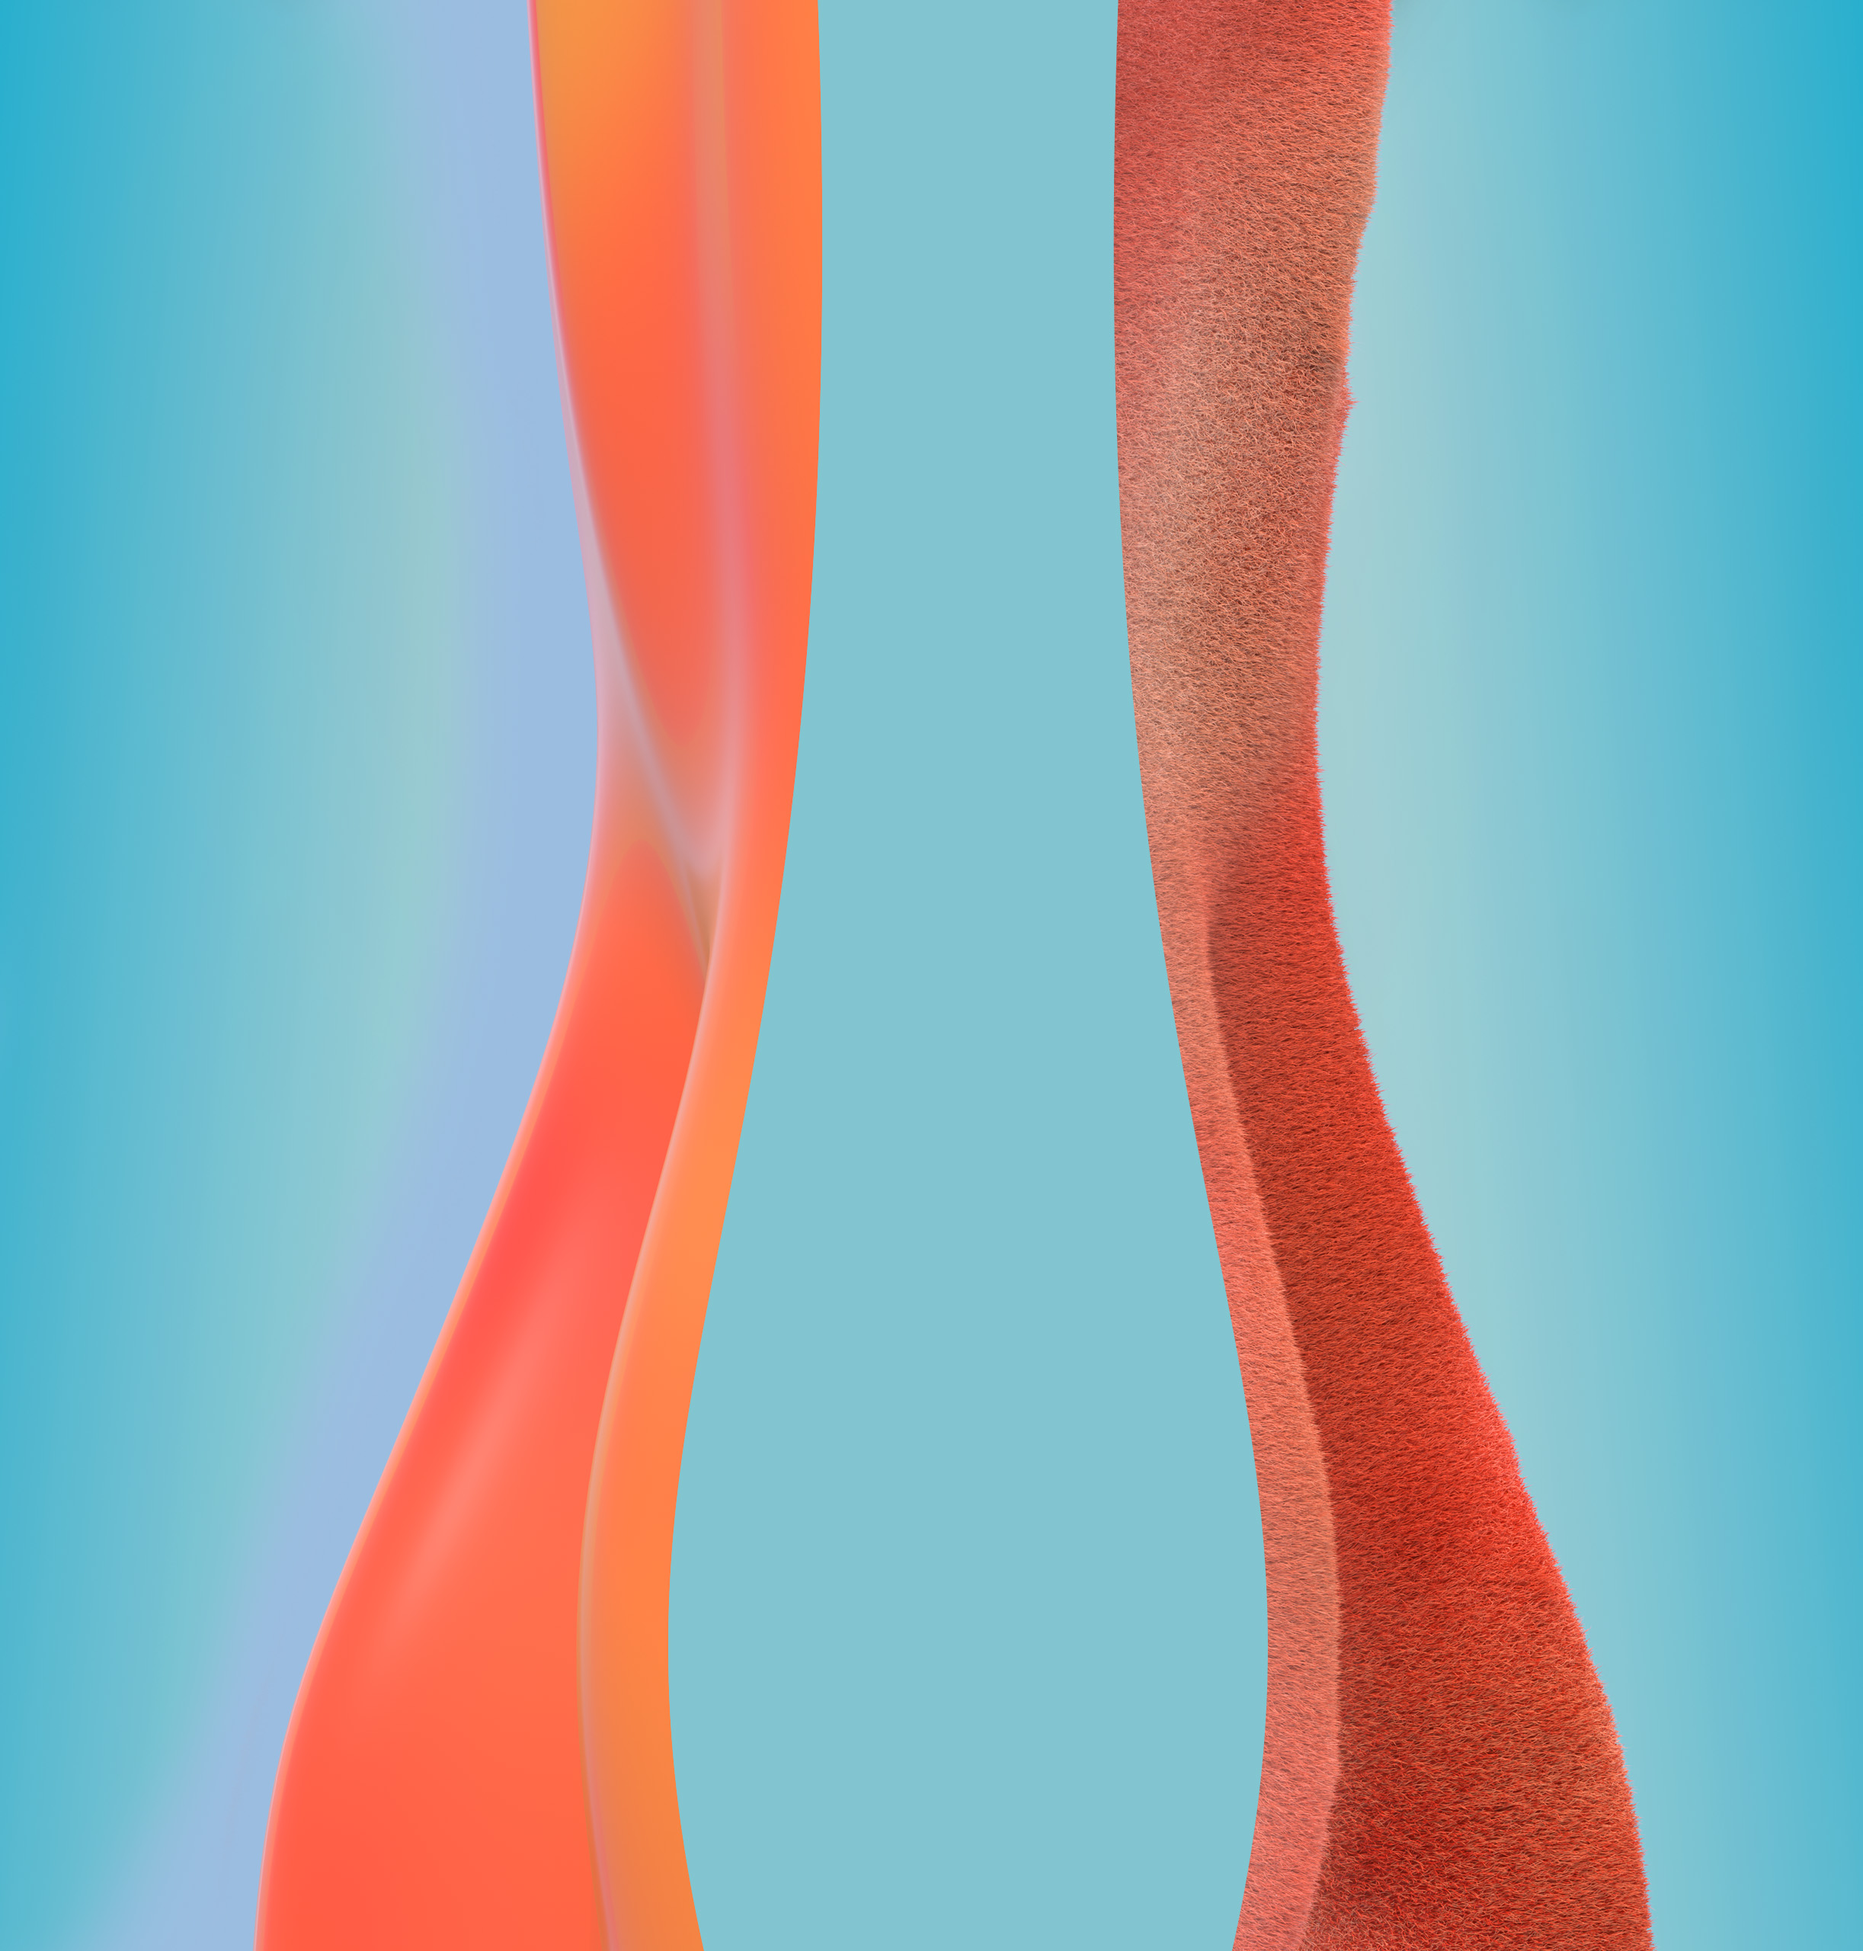
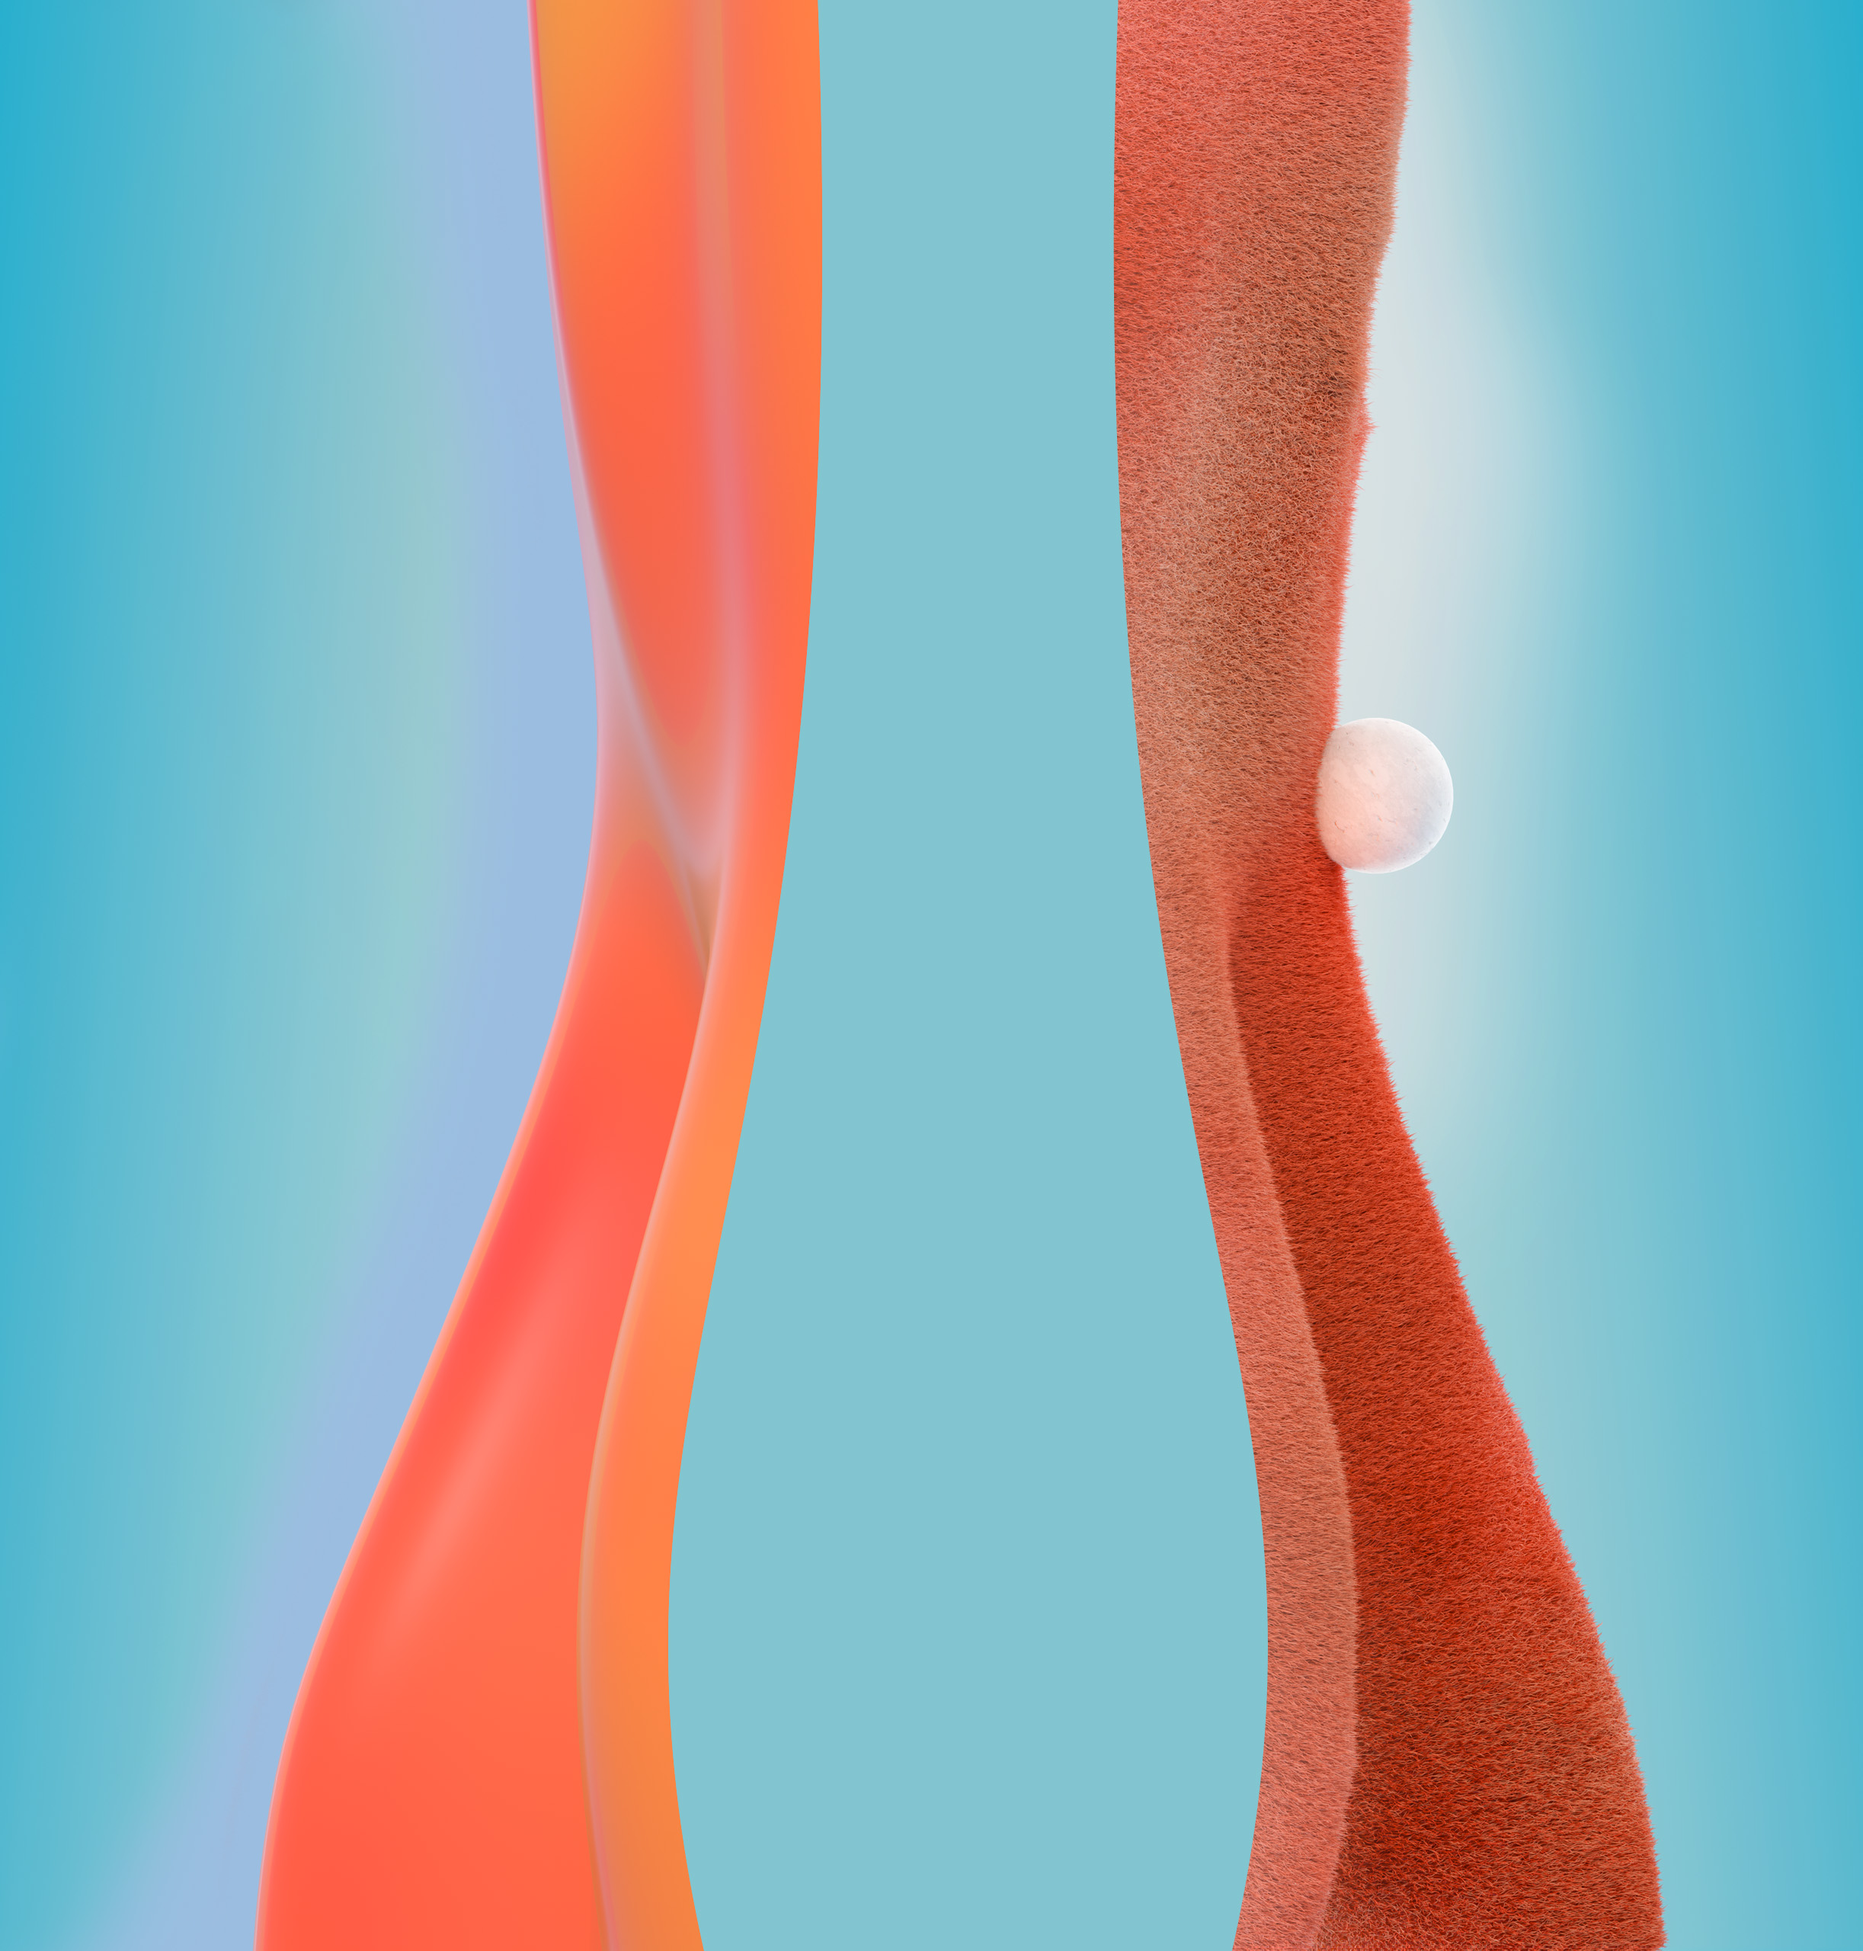
feat: update backgrounds with sphere

Changed region(s): [[0.5906, 0.0, 0.9014, 1.0]]

diff --git a/src/three/scenes/rtScene.ts b/src/three/scenes/rtScene.ts
@@ -12,8 +12,9 @@ interface IInitRTScene {
 export class RenderTexture {
     static readonly RENDER_TARGET_HEIGHT = 810 // 576
     static readonly RENDER_TARGET_WIDTH = 1440 // 1024
-    static readonly CYLINDER_RADIUS = 0.5
-    static readonly CAMERA_DISTANCE = 5.8
+    static readonly CYLINDER_RADIUS = 0.55
+    static readonly CYLINDER_HEIGHT = 3.6 // 0.D
+    static readonly CAMERA_DISTANCE = 6
 
     private readonly _textures!: THREE.Texture[]
     private readonly _renderTarget!: THREE.WebGLRenderTarget<THREE.Texture>
@@ -52,7 +53,12 @@ export class RenderTexture {
         const _rtCamera: THREE.PerspectiveCamera = new THREE.PerspectiveCamera(10, 1.8, 0.1, 1000)
         _rtCamera.position.z = RenderTexture.CAMERA_DISTANCE
 
-        const g = new THREE.CylinderGeometry(RenderTexture.CYLINDER_RADIUS, RenderTexture.CYLINDER_RADIUS, 3, 32)
+        const g = new THREE.CylinderGeometry(
+            RenderTexture.CYLINDER_RADIUS,
+            RenderTexture.CYLINDER_RADIUS,
+            RenderTexture.CYLINDER_HEIGHT,
+            32
+        )
 
         const _rtMaterial = new THREE.MeshStandardMaterial({
             map: this._textures[theme],

diff --git a/src/three/three-bg.ts b/src/three/three-bg.ts
@@ -37,8 +37,8 @@ export class ThreeBackground {
     private _renderer!: THREE.WebGLRenderer
 
     // Render target
-    static readonly RENDER_TARGET_HEIGHT = 576
-    static readonly RENDER_TARGET_WIDTH = 1024
+    static readonly RENDER_TARGET_HEIGHT = 810
+    static readonly RENDER_TARGET_WIDTH = 1440
 
     private readonly _IMAGES: string[] = ['./img/bg-light.jpg', './img/bg-dark.jpg', './img/disp1.jpg']
     private readonly _startingTheme!: Theme
